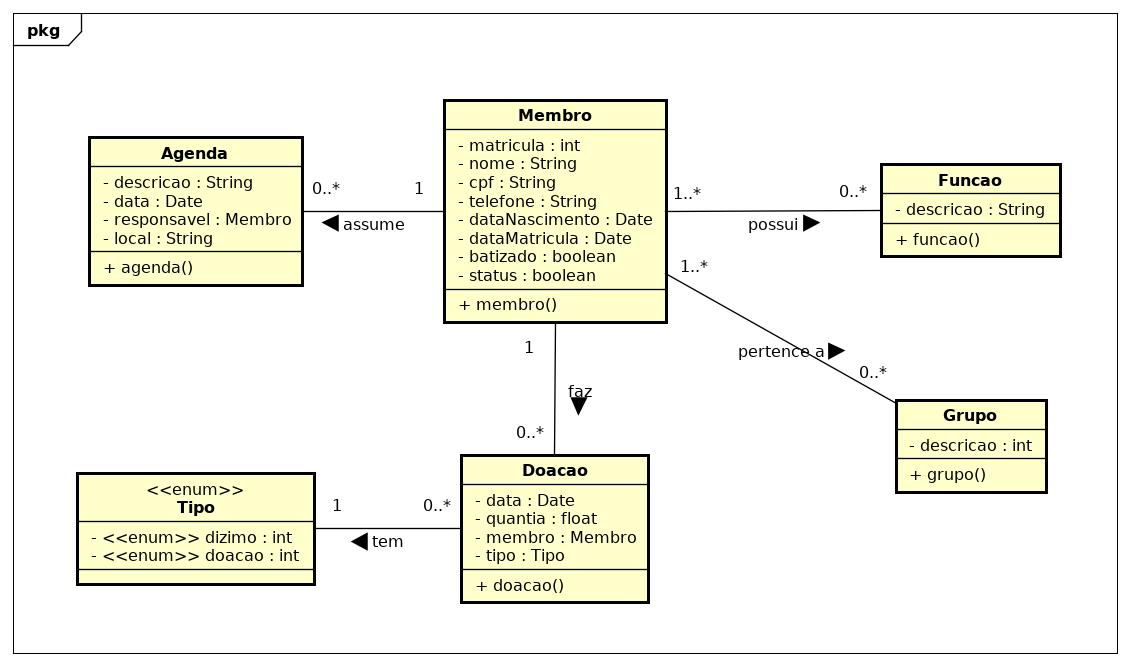
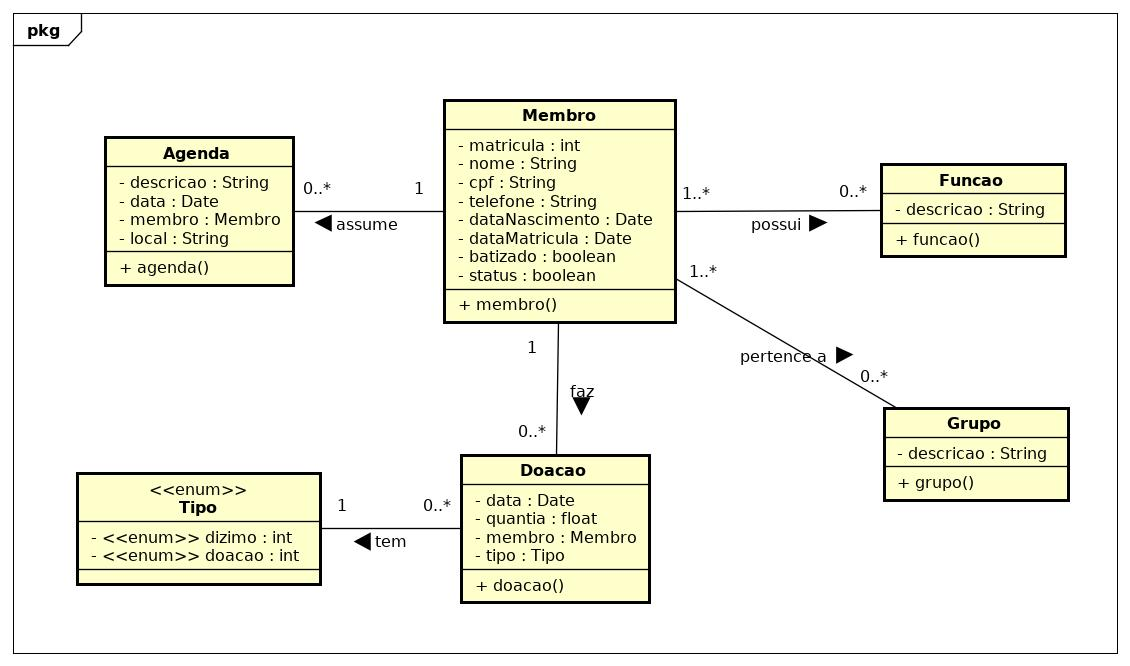
codificação do software

diff --git a/src/java/dominio/Membro.java b/src/java/dominio/Membro.java
@@ -1,0 +1,91 @@
+/*
+ * To change this license header, choose License Headers in Project Properties.
+ * To change this template file, choose Tools | Templates
+ * and open the template in the editor.
+ */
+package dominio;
+
+import java.util.Date;
+
+/**
+ *
+ * @author victor
+ */
+public class Membro {
+    
+    private int matricula;
+    private String nome;
+    private String cpf;
+    private String telefone;
+    private Date dataNascimento;
+    private Date dataMatricula;
+    private boolean batizado;
+    private boolean status;
+
+    public int getMatricula() {
+        return matricula;
+    }
+
+    public void setMatricula(int matricula) {
+        this.matricula = matricula;
+    }
+
+    public String getNome() {
+        return nome;
+    }
+
+    public void setNome(String nome) {
+        this.nome = nome;
+    }
+
+    public String getCpf() {
+        return cpf;
+    }
+
+    public void setCpf(String cpf) {
+        this.cpf = cpf;
+    }
+
+    public String getTelefone() {
+        return telefone;
+    }
+
+    public void setTelefone(String telefone) {
+        this.telefone = telefone;
+    }
+
+    public Date getDataNascimento() {
+        return dataNascimento;
+    }
+
+    public void setDataNascimento(Date dataNascimento) {
+        this.dataNascimento = dataNascimento;
+    }
+
+    public Date getDataMatricula() {
+        return dataMatricula;
+    }
+
+    public void setDataMatricula(Date dataMatricula) {
+        this.dataMatricula = dataMatricula;
+    }
+
+    public boolean isBatizado() {
+        return batizado;
+    }
+
+    public void setBatizado(boolean batizado) {
+        this.batizado = batizado;
+    }
+
+    public boolean isStatus() {
+        return status;
+    }
+
+    public void setStatus(boolean status) {
+        this.status = status;
+    }
+    
+    
+    
+}

diff --git a/src/java/dominio/Agenda.java b/src/java/dominio/Agenda.java
@@ -1,0 +1,63 @@
+/*
+ * To change this license header, choose License Headers in Project Properties.
+ * To change this template file, choose Tools | Templates
+ * and open the template in the editor.
+ */
+package dominio;
+
+import java.util.Date;
+
+/**
+ *
+ * @author victor
+ */
+public class Agenda {
+    
+    private String descricao;
+    private Date data;
+    private Membro responsavel;
+    private String local;
+    private Membro membro;
+
+    public String getDescricao() {
+        return descricao;
+    }
+
+    public void setDescricao(String descricao) {
+        this.descricao = descricao;
+    }
+
+    public Date getData() {
+        return data;
+    }
+
+    public void setData(Date data) {
+        this.data = data;
+    }
+
+    public Membro getResponsavel() {
+        return responsavel;
+    }
+
+    public void setResponsavel(Membro responsavel) {
+        this.responsavel = responsavel;
+    }
+
+    public String getLocal() {
+        return local;
+    }
+
+    public void setLocal(String local) {
+        this.local = local;
+    }
+
+    public Membro getMembro() {
+        return membro;
+    }
+
+    public void setMembro(Membro membro) {
+        this.membro = membro;
+    }
+    
+    
+}

diff --git a/src/java/dominio/Doacao.java b/src/java/dominio/Doacao.java
@@ -1,0 +1,44 @@
+/*
+ * To change this license header, choose License Headers in Project Properties.
+ * To change this template file, choose Tools | Templates
+ * and open the template in the editor.
+ */
+package dominio;
+
+import java.util.Date;
+
+/**
+ *
+ * @author victor
+ */
+public class Doacao {
+    
+    private Date data;
+    private float quantia;
+    private Membro membro;
+
+    public Date getData() {
+        return data;
+    }
+
+    public void setData(Date data) {
+        this.data = data;
+    }
+
+    public float getQuantia() {
+        return quantia;
+    }
+
+    public void setQuantia(float quantia) {
+        this.quantia = quantia;
+    }
+
+    public Membro getMembro() {
+        return membro;
+    }
+
+    public void setMembro(Membro membro) {
+        this.membro = membro;
+    }
+
+}

diff --git a/src/java/dominio/Funcao.java b/src/java/dominio/Funcao.java
@@ -1,0 +1,34 @@
+/*
+ * To change this license header, choose License Headers in Project Properties.
+ * To change this template file, choose Tools | Templates
+ * and open the template in the editor.
+ */
+package dominio;
+
+/**
+ *
+ * @author victor
+ */
+public class Funcao {
+    
+    private String descricao;
+    private Membro membro;
+
+    public String getDescricao() {
+        return descricao;
+    }
+
+    public void setDescricao(String descricao) {
+        this.descricao = descricao;
+    }
+
+    public Membro getMembro() {
+        return membro;
+    }
+
+    public void setMembro(Membro membro) {
+        this.membro = membro;
+    }
+    
+    
+}

diff --git a/src/java/dominio/Grupo.java b/src/java/dominio/Grupo.java
@@ -1,0 +1,25 @@
+/*
+ * To change this license header, choose License Headers in Project Properties.
+ * To change this template file, choose Tools | Templates
+ * and open the template in the editor.
+ */
+package dominio;
+
+/**
+ *
+ * @author victor
+ */
+public class Grupo {
+    
+    private String descricao;
+
+    public String getDescricao() {
+        return descricao;
+    }
+
+    public void setDescricao(String descricao) {
+        this.descricao = descricao;
+    }
+    
+        
+}

diff --git a/src/java/dominio/Tipo.java b/src/java/dominio/Tipo.java
@@ -1,0 +1,14 @@
+/*
+ * To change this license header, choose License Headers in Project Properties.
+ * To change this template file, choose Tools | Templates
+ * and open the template in the editor.
+ */
+package dominio;
+
+/**
+ *
+ * @author victor
+ */
+public enum Tipo {
+    DIZIMO, DOAÇÃO;
+}
